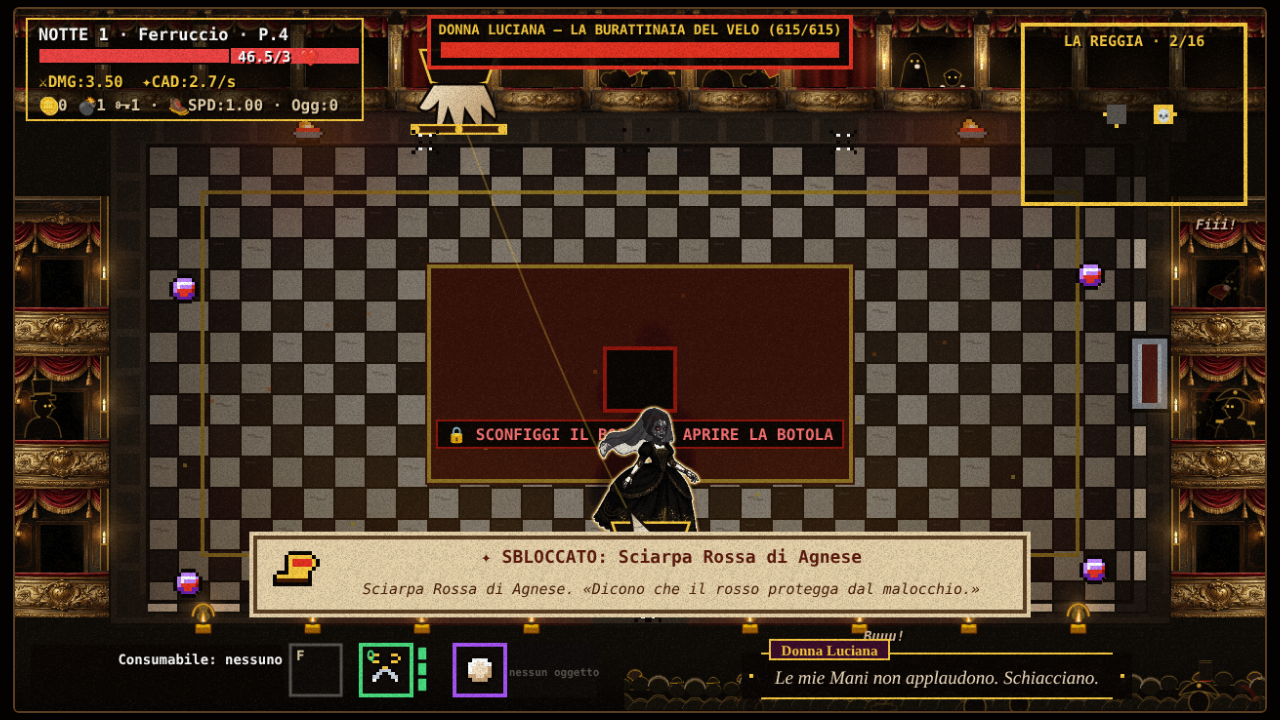
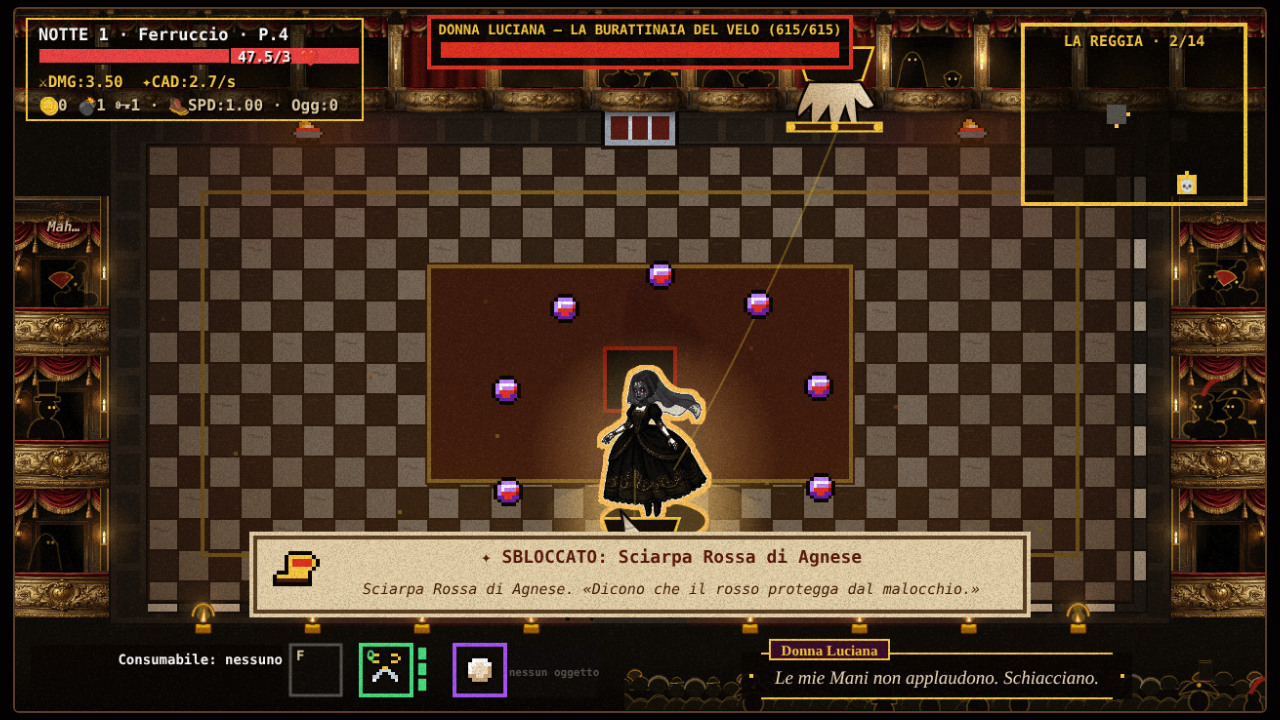
fix(teatro): Donna Luciana a colpo d'occhio: scacchi caldi e smorzati, occhio di bue e alone, bordo di lanterna di 2 px, cartello della botola nascosto mentre lei è viva
Claude-Session: https://claude.ai/code/session_01F5x6kDAQ4qaiYDiFx9jQb5

diff --git a/gioco/teatro/d7-rifiniture.js b/gioco/teatro/d7-rifiniture.js
@@ -14,9 +14,10 @@
 /** Numeri della resa dell'arena di Donna Luciana. */
 const LUCIANA_D7 = Object.freeze({
   bossId: 'donna-luciana',
-  pavimento: Object.freeze({ x: 68, y: 70, w: 504, h: 234, velo: 'rgba(12, 7, 5, 0.46)' }), // scacchi smorzati
-  occhioDiBue: Object.freeze({ rx: 46, ry: 17, dy: 8, centro: 'rgba(255, 214, 140, 0.55)', bordo: 'rgba(255, 190, 90, 0)' }),
-  contorno: Object.freeze({ colore: 'rgba(255, 196, 92, 0.9)', raggio: 1.2 }),
+  pavimento: Object.freeze({ x: 68, y: 70, w: 504, h: 234, velo: 'rgba(46, 26, 14, 0.6)' }), // scacchi smorzati: chiare a ~38% di luminosità, tinta calda
+  occhioDiBue: Object.freeze({ rx: 58, ry: 22, dy: 8, centro: 'rgba(255, 226, 160, 0.85)', bordo: 'rgba(255, 190, 90, 0)',
+    alone: Object.freeze({ dy: -26, r: 64, centro: 'rgba(255, 214, 140, 0.5)', bordo: 'rgba(255, 190, 90, 0)' }) }),
+  contorno: Object.freeze({ colore: '#ffc45c', spessore: 2 }), // px logici
   proiettile: Object.freeze({ r: 5.5, fondo: 'rgba(10, 5, 3, 0.85)', anello: '#ffcf6b', spessore: 1.4 }),
 });
 
@@ -68,10 +69,19 @@ disegnaBossPittorico = function disegnaBossPittoricoD7(...a) {
     ctx.beginPath();
     ctx.ellipse(b.x, yb, O.rx, O.ry, 0, 0, TAU);
     ctx.fill();
+    const A = O.alone, ya = b.y + A.dy; // alone dietro la figura
+    const ga = ctx.createRadialGradient(b.x, ya, 4, b.x, ya, A.r);
+    ga.addColorStop(0, A.centro);
+    ga.addColorStop(1, A.bordo);
+    ctx.fillStyle = ga;
+    ctx.beginPath();
+    ctx.arc(b.x, ya, A.r, 0, TAU);
+    ctx.fill();
     ctx.restore();
   } catch (err) { console.error('[d7] occhio di bue', err); }
   ctx.save();
-  ctx.filter = `drop-shadow(0 0 ${C.raggio}px ${C.colore}) drop-shadow(0 0 ${C.raggio}px ${C.colore})`; // contorno di lanterna
+  const t = ctx.getTransform(), d = (C.spessore * Math.hypot(t.a, t.b)).toFixed(2); // filter lavora in px della tela
+  ctx.filter = `drop-shadow(${d}px 0 0 ${C.colore}) drop-shadow(-${d}px 0 0 ${C.colore}) drop-shadow(0 ${d}px 0 ${C.colore}) drop-shadow(0 -${d}px 0 ${C.colore})`; // contorno pieno di lanterna
   disegniLucianaD7++;
   try { return disegnaBossPittoricoBaseD7.apply(this, a); } finally { ctx.restore(); }
 };

diff --git a/gioco/teatro/60-resa.js b/gioco/teatro/60-resa.js
@@ -1384,8 +1384,8 @@ function disegnaFrame(dtMs) {
         ? (pianoNelCiclo === 4
           ? `▼ BIS! LOOP INFINITO · PIANO ${statoRun.piano + 1} (CICLO ${statoRun.ciclo + 1}) [Click/E] ▼`
           : `▼ SCENDI AL PIANO ${statoRun.piano + 1} [Click/E] ▼`)
-        : '🔒 SCONFIGGI IL BOSS PER APRIRE LA BOTOLA';
-      drawPillLabel(msgBotola, 320, 222, 340, {
+        : (typeof lucianaInScenaD7 === 'function' && lucianaInScenaD7() ? '' : '🔒 SCONFIGGI IL BOSS PER APRIRE LA BOTOLA'); // (d7) non copre Donna Luciana
+      if (msgBotola) drawPillLabel(msgBotola, 320, 222, 340, {
         size: 8,
         color: st.uscitaAperta ? '#f9cb40' : '#f87171',
         border: st.uscitaAperta ? '#f9cb40' : '#8f160c',
